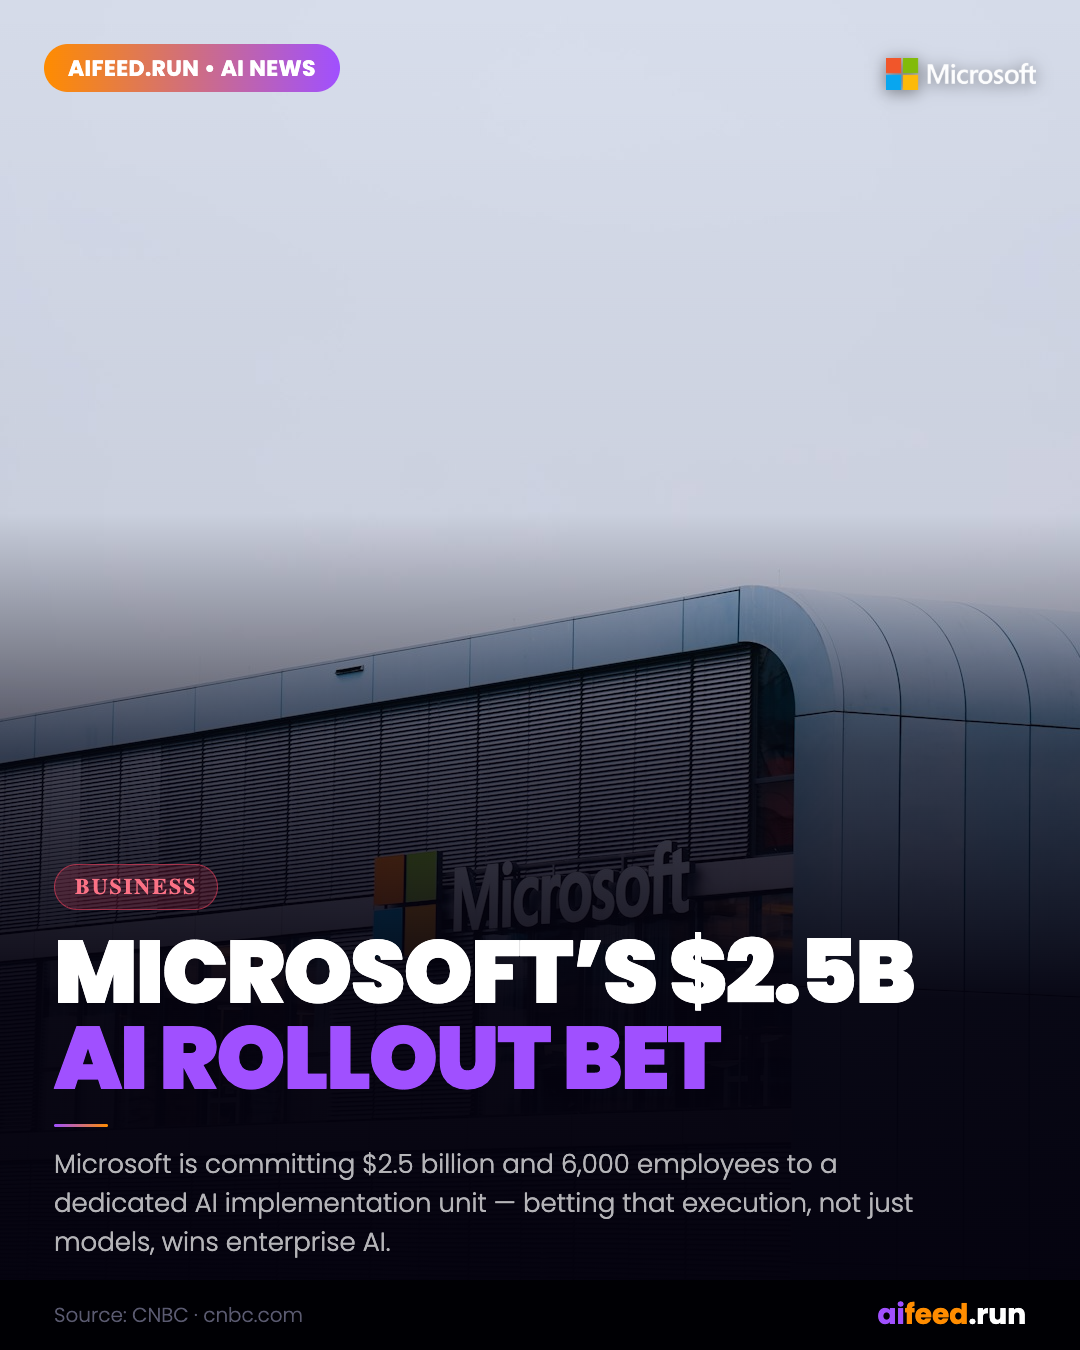
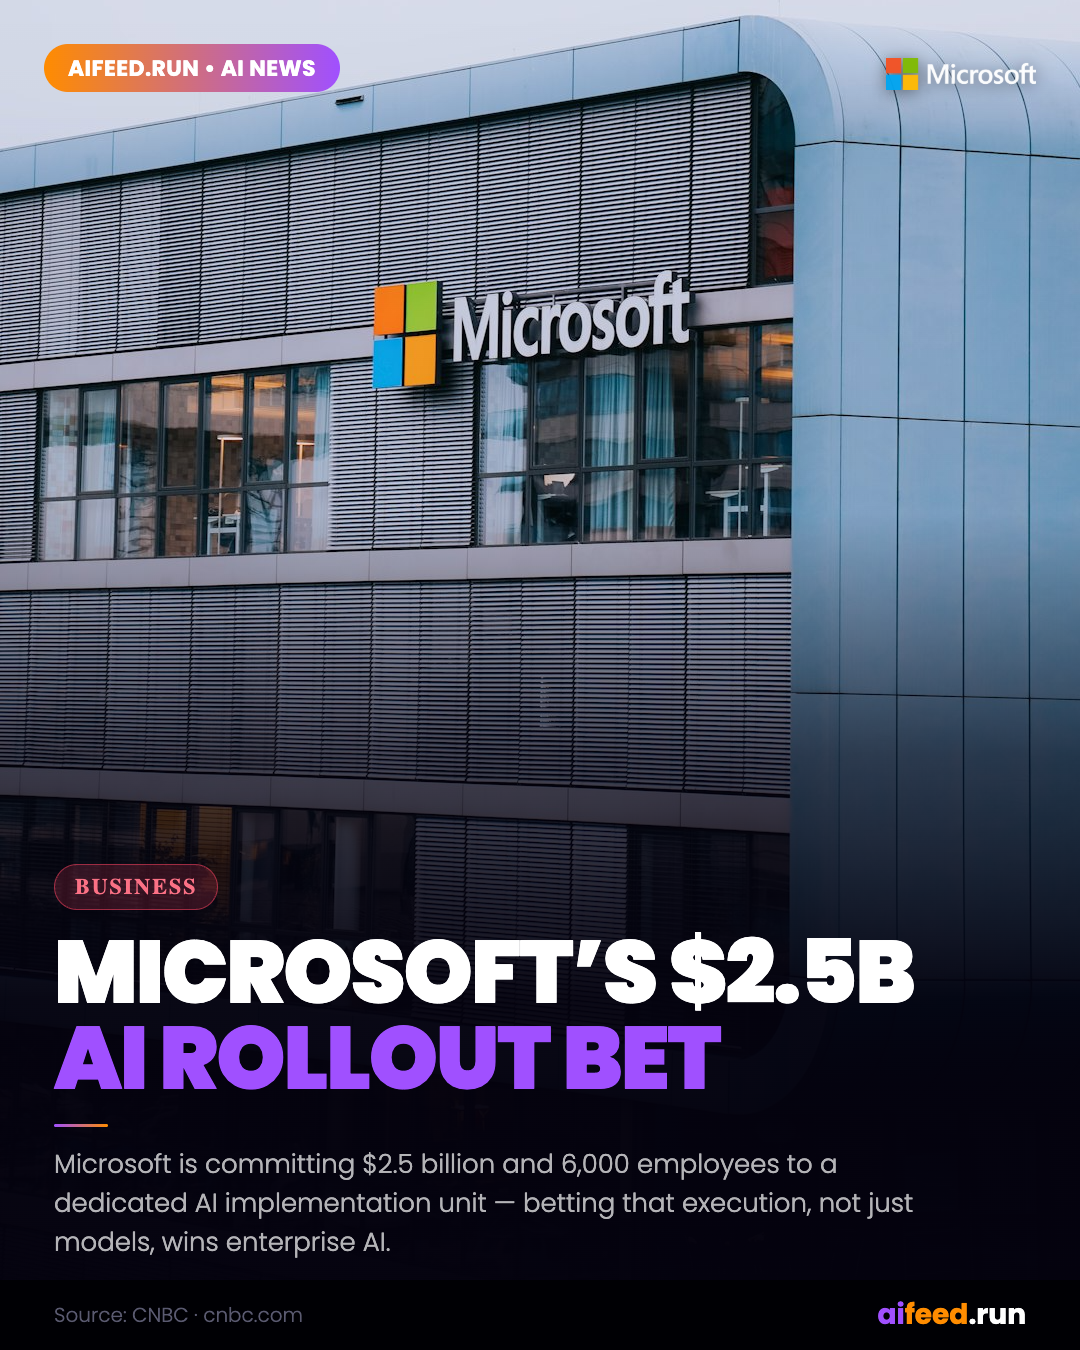
Microsoft graphic: fix photo placement (crop building to fill frame, remove empty top space)

diff --git a/graphics/aifeed_microsoft_25b_ai_unit_20260702.html b/graphics/aifeed_microsoft_25b_ai_unit_20260702.html
@@ -6,7 +6,7 @@
 html,body{margin:0;padding:0;width:1080px;height:1350px;overflow:hidden;background:#04020e}
 *{box-sizing:border-box}
 .wrap{position:absolute;top:0;left:0;width:1080px;height:1350px;overflow:hidden}
-.bg{position:absolute;top:0;left:0;width:1080px;height:1350px;object-fit:cover;object-position:center top;display:block}
+.bg{position:absolute;top:0;left:0;width:1080px;height:1350px;object-fit:cover;object-position:center bottom;display:block}
 .ov{position:absolute;inset:0;background:linear-gradient(to bottom,rgba(4,2,14,0) 0%,rgba(4,2,14,0.05) 38%,rgba(4,2,14,0.65) 56%,rgba(4,2,14,0.96) 74%,rgba(4,2,14,1) 100%)}
 .pill{position:absolute;top:44px;left:44px;background:linear-gradient(to right,#ff8c00,#a050ff);height:48px;border-radius:24px;padding:0 24px;display:inline-flex;align-items:center;font-family:'Poppins',sans-serif;font-size:22px;font-weight:700;color:#fff;white-space:nowrap;letter-spacing:.4px}
 .content{position:absolute;left:54px;right:54px;bottom:88px}
